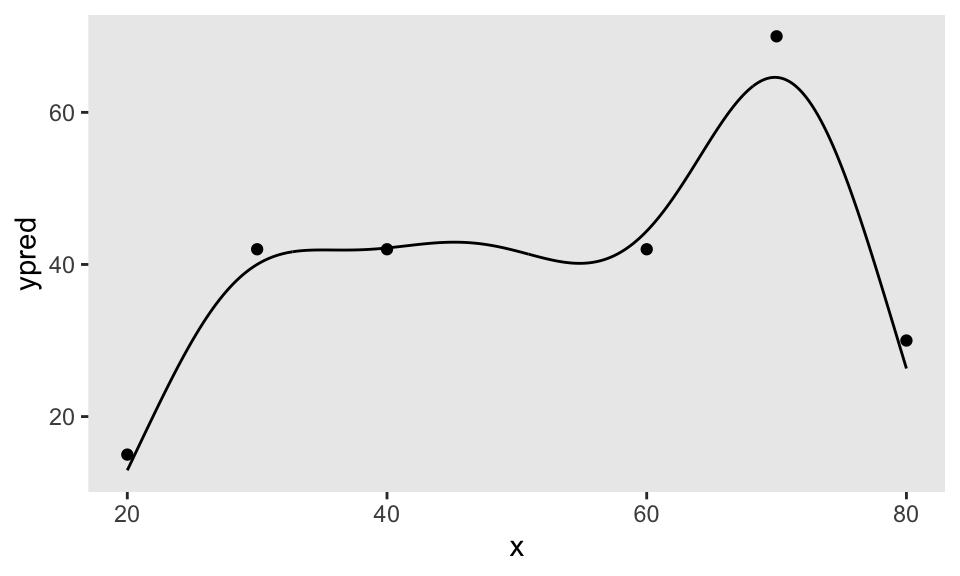
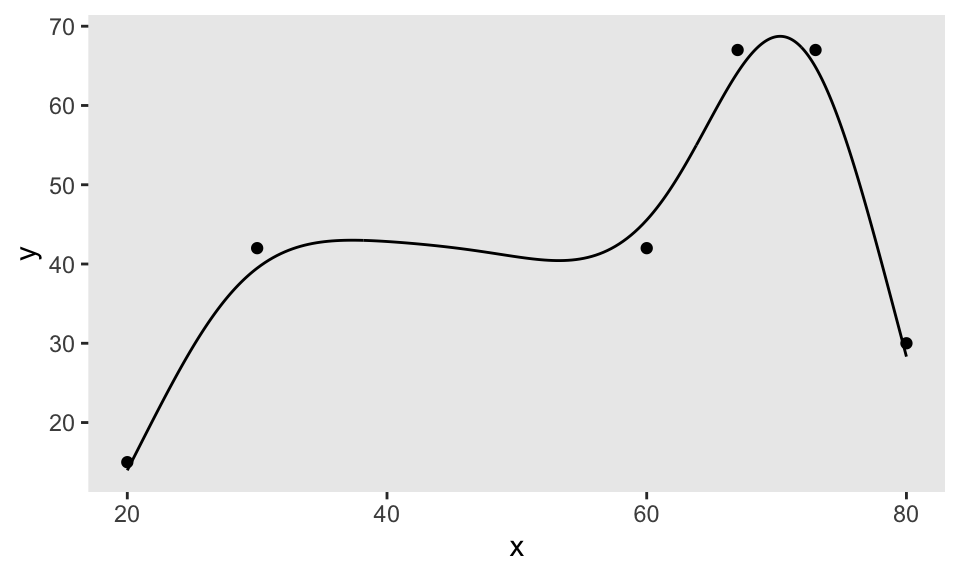
Updating draft

diff --git a/content/post/2022-08-09-simulating-data-from-a-non-linear-function-by-specifying-some-points-on-the-curve/index.en.html b/content/post/2022-08-09-simulating-data-from-a-non-linear-function-by-specifying-some-points-on-the-curve/index.en.html
@@ -16,19 +16,19 @@ draft: TRUE
 
 
 
-<p>If you are simulating data where the relationship between two variables is non-linear, it can be frustrating to find a mathematical expression that will allow you do that. Clearly, if the relationship is straightforward, such as a quadratic association, there is no need to go through all this trouble. But for more complicated scenarios, I’ve come up with a relatively simple solution that only requires the specification of a few points that lie on or near the desired curve. The translation from this set of points to the desired function and finally to the simulated data is done by leveraging generalized additive modelling (GAM) methods. (There are many, many sources that describe GAMs: <a href="https://m-clark.github.io/generalized-additive-models" target="_blank">this</a> and <a href="https://noamross.github.io/gams-in-r-course/" target="_blank">this</a> provide excellent overviews, and of course, there is this <a href="https://www.routledge.com/Generalized-Additive-Models-An-Introduction-with-R-Second-Edition/Wood/p/book/9781498728331" target="_blank">book</a>.) My goal here is to take you through this simple solution, and at some point in the future, I will try to implement some version of this in <code>simstudy</code>.</p>
+<p>Trying to simulate data with non-linear relationships can be frustrating, since there is not always an obvious mathematical expression that will give you the shape you are looking for. I’ve come up with a relatively simple solution for somewhat complex scenarios that only requires the specification of a few points that lie on or near the desired curve. (Clearly, if the relationships are straightforward, such as relationships that can easily be represented by quadratic or cubic polynomials, there is no need to go through all this trouble.) The translation from the set of points to the desired function and finally to the simulated data is done by leveraging generalized additive modelling (GAM) methods, and is described here.</p>
 <p>Before we begin, here are the <code>R</code> packages used in the post:</p>
 <pre class="r"><code>library(data.table)
 library(ggplot2)
 library(mgcv)</code></pre>
 <div id="starting-with-the-idea-of-non-linear-function" class="section level4">
 <h4>Starting with the idea of non-linear function</h4>
-<p>Say we have a function in mind that looks something like this:</p>
+<p>Say we desire a functional relationship <span class="math inline">\(y = f(x)\)</span> that looks something like this:</p>
 <p><img src="{{< blogdown/postref >}}index.en_files/figure-html/unnamed-chunk-2-1.png" width="480" /></p>
 </div>
 <div id="conceptualize-the-function-with-a-handful-of-points" class="section level4">
 <h4>Conceptualize the function with a handful of points</h4>
-<p>Since it is not obvious (to me at least) how to express this mathematically, let’s start by selecting a few points that describe the general shape. In this case, I think seven points do the trick pretty well:</p>
+<p>Since it is not obvious (to me at least) how to express this curve mathematically, let’s start by selecting a few points that describe the general shape. In this case, I think using seven points does the trick pretty well:</p>
 <pre class="r"><code>x &lt;- c(20, 30, 40, 50, 60, 70, 80)
 y &lt;- c(15, 40, 25, 22, 35, 24, 15)
 
@@ -42,7 +42,7 @@ ggplot(data = dd, aes(x = x, y = y)) +
 </div>
 <div id="fill-in-the-gaps" class="section level4">
 <h4>Fill in the gaps</h4>
-<p>If we want to extrapolate from this small set of points to a curve, we will need more data. We can easily generate this data by taking points along the lines that connect our original points. All this requires is a some rudimentary algebra. First, just create a data set that includes the start and end points of each line segment:</p>
+<p>If we want to extrapolate from this small set of points to a curve, we will need more data. We can easily generate this data by taking points along the lines that connect our original points. This requires only some rudimentary algebra. First, just create a data set that includes the start and end points of each line segment:</p>
 <pre class="r"><code>dc &lt;- copy(dd)
   
 dc[, xend := (shift(x, type = &quot;lead&quot;))]
@@ -82,7 +82,7 @@ dx</code></pre>
 ## 598:  6 79.79798 15.18182
 ## 599:  6 79.89899 15.09091
 ## 600:  6 80.00000 15.00000</code></pre>
-<p>Here is a visualization of the points, which comprise our augmented data set:</p>
+<p>The augmented set of points looks like a sequence of line segments when plotted:</p>
 <pre class="r"><code>ggplot(data = dx, aes(x = x, y = y)) +
   geom_point(size = .05) +
   theme(panel.grid = element_blank())</code></pre>
@@ -90,9 +90,10 @@ dx</code></pre>
 </div>
 <div id="smoothing-out-points-to-get-our-curve" class="section level4">
 <h4>Smoothing out points to get our curve</h4>
-<p>A call to the function <code>gam</code> in the <code>mgcv</code> package with a smoothing term specified for our input <span class="math inline">\(x\)</span> (and a relatively low degrees of freedom <span class="math inline">\(k\)</span> to ensure a very smooth result), gives us an object that can serve as our function:</p>
+<p>The idea here is to convert this set of line segments into a curve that can be represented by a functional object we can use to generate new outcomes. Any model fit in R can serve as a functional object in the sense that if you provide an input (or number of inputs) to the <code>predict</code> function for that model fit, you will get an output from that model.</p>
+<p>GAMs are a family of flexible models that use spline functions to generate highly curved functions, so are a perfect solution here. (There are many, many sources that describe GAMs: <a href="https://m-clark.github.io/generalized-additive-models" target="_blank">this</a> and <a href="https://noamross.github.io/gams-in-r-course/" target="_blank">this</a> provide excellent overviews, and of course, there is this <a href="https://www.routledge.com/Generalized-Additive-Models-An-Introduction-with-R-Second-Edition/Wood/p/book/9781498728331" target="_blank">book</a>.) In this case, we will fit a GAM model to our augmented data set to get a smoothed version the desired function. A call to the function <code>gam</code> in the <code>mgcv</code> package with a smoothing term specified for our input <span class="math inline">\(x\)</span> (and a relatively low degrees of freedom <span class="math inline">\(k\)</span> to ensure a very smooth result), gives the object that will serve as our function:</p>
 <pre class="r"><code>gam.fit &lt;- gam(y ~ s(x, k = 7), data = dx)</code></pre>
-<p>Using the <code>predict.gam</code> function, we can see how the GAM has abstracted from the line segments to give us our desired curve. (Of course, we might need to tweak our input set of points to the curve we are looking for.)</p>
+<p>Using <code>predict.gam</code>, we can see how the GAM has abstracted from the line segments to give us our desired curve. (Of course, we might need to tweak our input set of points to get closer to the curve we are looking for.)</p>
 <pre class="r"><code>dx[, ypred := predict(gam.fit)]
   
 ggplot(data = dx, aes(x=x, y = ypred)) +
@@ -116,20 +117,16 @@ ggplot(data = rand_data, aes(x = x, y = y)) +
 </div>
 <div id="wrapping-all-of-this-up-in-a-function" class="section level4">
 <h4>Wrapping all of this up in a function</h4>
-<p>This can all be simplified by putting this code inside a function, so we can generate the desired data in a few simple steps.</p>
-<p>I’ve written a function <code>getNLfunction</code> based on the code above that returns the fitted GAM object. Here, we describe another curve with six points:</p>
-<pre class="r"><code>x &lt;- c(20, 30, 40, 60, 70, 80)
-y &lt;- c(15, 42, 42, 42, 70, 30)
+<p>This can all be simplified by putting the code inside a function; with this, we can generate the desired data in a few simple steps.</p>
+<p>Here, we are trying to generated a second curve - this time using six points. The function <code>getNLfunction</code> takes those points, plots the curve, and returns the fitted GAM object.</p>
+<pre class="r"><code>x &lt;- c(20, 30, 60, 67, 73, 80)
+y &lt;- c(15, 42, 42, 67, 67, 30)
 
 nlf &lt;- getNLfunction(data.table(x = x, y = y), k = 1)</code></pre>
 <p><img src="{{< blogdown/postref >}}index.en_files/figure-html/unnamed-chunk-11-1.png" width="480" /></p>
-<p>The new function <code>genNL</code> is really just a wrapper for <code>predict.gam</code>. With just a few lines of code, it is possible to generate observations from an infinite range of flexible functions:</p>
-<pre class="r"><code>rand_data &lt;- data.table(x = runif(120, 20, 80))
-rand_data$y &lt;- genNL(nlf, rand_data$x, sd = 2)
-
-ggplot(data = rand_data, aes(x=x, y = y)) +
-  geom_point(size = .4)  +
-  theme(panel.grid = element_blank())</code></pre>
-<p><img src="{{< blogdown/postref >}}index.en_files/figure-html/unnamed-chunk-12-1.png" width="480" /></p>
-<p>Next time, or sometime soon, I will demonstrate how this flexible data generation process can be incorporated into simstudy` data generation.</p>
+<p>The new function <code>genNL</code> is really just a wrapper for <code>predict.gam</code>. Here, we generate new <span class="math inline">\(x\)</span>’s and the corresponding <span class="math inline">\(y\)</span>’s with noise:</p>
+<pre class="r"><code>rand_data &lt;- data.table(x = runif(180, 20, 80))
+rand_data$y &lt;- genNL(nlf, rand_data$x, sd = 2)</code></pre>
+<p><img src="{{< blogdown/postref >}}index.en_files/figure-html/unnamed-chunk-13-1.png" width="480" /></p>
+<p>So, with just a few lines of code, it is possible to generate observations from an infinite range of flexible functions. Sometime soon, I will demonstrate how this flexible data generation process can be incorporated directly into a <code>simstudy</code> data generation process.</p>
 </div>
